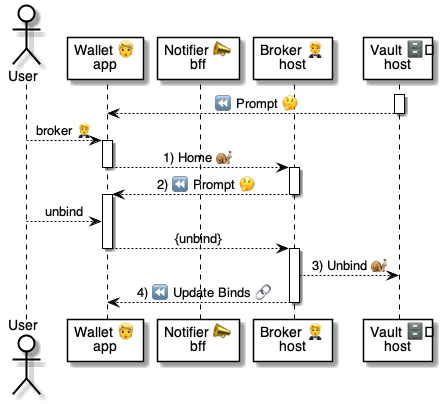
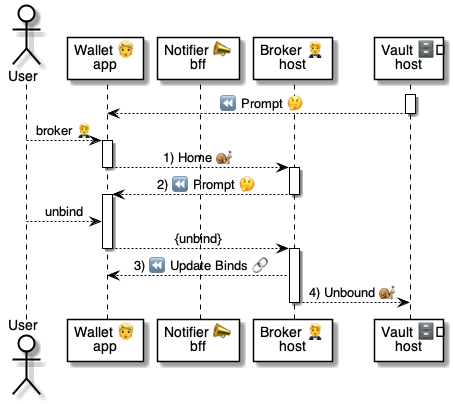
.

diff --git a/4 ⚙ Solution/20 🧑🦰 UI/1 🧑🦰 Wallets/🧑🦰💬 Wallet in Vaults 🗄/🧑🦰💬🤵 Unbind 🗄.md b/4 ⚙ Solution/20 🧑🦰 UI/1 🧑🦰 Wallets/🧑🦰💬 Wallet in Vaults 🗄/🧑🦰💬🤵 Unbind 🗄.md
@@ -33,6 +33,6 @@
 |-|-|-
 | 1 | [🧑🦰🐌🤗 `Home@Host`](<../../../41 🎭 Domain Roles/Hosts 🤗/🤗🅰 Host methods/🤵🐌🤗 Home.md>) | Call the [Broker 🤵](<../../3 🤵 Brokers/🤵🤲 Broker helper.md>) in a [Chat 💬](<../../../35 💬 Chats/💬 Chats/💬 Chat.md>)  with a [Host 🤗](<../../../41 🎭 Domain Roles/Hosts 🤗/🤗🎭 Host role.md>) 
 | 2 | [🤗⏩🧑🦰 `Prompt@Host`](<../../../41 🎭 Domain Roles/Hosts 🤗/🤗⏩ Host flows/🤗⏩🧑🦰 Prompt 🤔.md>) | Ask the [Broker 🤵](<../../3 🤵 Brokers/🤵🤲 Broker helper.md>) to remove the  [Bind 🔗](<../../../30 🧩 Data/2 🔗 Binds/🔗 Bind.md>)
-| 3 | [🤵🐌🗄 `Unbound@Vault`](<../../../41 🎭 Domain Roles/Vaults 🗄/🗄🅰 Vault methods/🤵🐌🗄 Unbind.md>) | The [Broker 🤵](<../../3 🤵 Brokers/🤵🤲 Broker helper.md>) unbinds and informs the [Vault 🗄](<../../../41 🎭 Domain Roles/Vaults 🗄/🗄🎭 Vault role.md>)
-| 4 | [🤵⏩🧑🦰 Update Binds 🔗](<../../3 🤵 Brokers/🤵⏩ Broker flows/🤵⏩🧑🦰 Update Binds 🔗.md>) | Asks the [Wallet 🧑🦰](<../🧑🦰🛠 Wallet app.md>) to update the [Binds 🔗](<../../../30 🧩 Data/2 🔗 Binds/🔗 Bind.md>)
+| 3 | [🤵⏩🧑🦰 Update Binds 🔗](<../../3 🤵 Brokers/🤵⏩ Broker flows/🤵⏩🧑🦰 Update Binds 🔗.md>) | Asks the [Wallet 🧑🦰](<../🧑🦰🛠 Wallet app.md>) to update the [Binds 🔗](<../../../30 🧩 Data/2 🔗 Binds/🔗 Bind.md>)
+| 4 | [🤵🐌🗄 `Unbound@Vault`](<../../../41 🎭 Domain Roles/Vaults 🗄/🗄🅰 Vault methods/🤵🐌🗄 Unbind.md>) | The [Broker 🤵](<../../3 🤵 Brokers/🤵🤲 Broker helper.md>) unbinds and informs the [Vault 🗄](<../../../41 🎭 Domain Roles/Vaults 🗄/🗄🎭 Vault role.md>)
 |

diff --git a/4 ⚙ Solution/20 🧑🦰 UI/1 🧑🦰 Wallets/🧑🦰🛠 Wallet app.md b/4 ⚙ Solution/20 🧑🦰 UI/1 🧑🦰 Wallets/🧑🦰🛠 Wallet app.md
@@ -136,7 +136,7 @@
 
     | Category | Workflow |  Description
     |-|-|-
-    | 🤵 Set up | [👉 Onboard](<🧑🦰💬 Wallet in App 🏠/🧑🦰💬🤵 Onboard.md>)  | Register the [Wallet 🧑🦰](<🧑🦰🛠 Wallet app.md>) on a [Broker 🤵](<../3 🤵 Brokers/🤵🤲 Broker helper.md>)
+    | 🤵 Set up | [👉 Onboard](<🧑🦰✨ Wallet onboard/🧑🦰💬🤵 Onboard.md>)  | Register the [Wallet 🧑🦰](<🧑🦰🛠 Wallet app.md>) on a [Broker 🤵](<../3 🤵 Brokers/🤵🤲 Broker helper.md>)
     | | [👉 Translate](<🧑🦰💬 Wallet in App 🏠/🧑🦰💬🤵 Translate.md>)  | Change the language of the [Wallet 🧑🦰](<🧑🦰🛠 Wallet app.md>)
     | 🔆 Locators |[👉 Host QR](<🧑🦰💬 Wallet in App 🏠/🧑🦰🔆🤗 Tap host locator.md>)  | Scan a [Host 🤗 NFC/QR](<../../41 🎭 Domain Roles/Hosts 🤗/🤗🎭 Host role.md>)   to open a [Chat 💬](<../../35 💬 Chats/💬 Chats/💬 Chat.md>)
     ||[👉 Printer QR](<🧑🦰💬 Wallet in App 🏠/🧑🦰🔆🖨 Tap alias locator.md>)  | Scan a [Printer 🖨 NFC/QR](<../../45 🤲 Helper domains/Printers 🖨/🖨🤲 Printer helper.md>) to open a [Chat 💬](<../../35 💬 Chats/💬 Chats/💬 Chat.md>)

diff --git a/4 ⚙ Solution/20 🧑🦰 UI/2 📣 Notifiers/📣🅰 Notifier methods/1 🤵 Onboard/1 🧑🦰🚀📣 Onboard.md b/4 ⚙ Solution/20 🧑🦰 UI/2 📣 Notifiers/📣🅰 Notifier methods/1 🤵 Onboard/1 🧑🦰🚀📣 Onboard.md
@@ -7,7 +7,7 @@
 
 A new [Wallet 🧑🦰 apps](<../../../1 🧑🦰 Wallets/🧑🦰🛠 Wallet app.md>) asks a [Notifier 📣 domain](<../../📣👥 Notifier domain.md>) to onboard.
 
-* Used in [Onboard 🧑🦰👉🤵](<../../../1 🧑🦰 Wallets/🧑🦰💬 Wallet in App 🏠/🧑🦰💬🤵 Onboard.md>) to register the channel between the [Notifier 📣 domain](<../../📣👥 Notifier domain.md>) and the [Wallet 🧑🦰 apps](<../../../1 🧑🦰 Wallets/🧑🦰🛠 Wallet app.md>) (e.g., sockets). 
+* Used in [Onboard 🧑🦰👉🤵](<../../../1 🧑🦰 Wallets/🧑🦰✨ Wallet onboard/🧑🦰💬🤵 Onboard.md>) to register the channel between the [Notifier 📣 domain](<../../📣👥 Notifier domain.md>) and the [Wallet 🧑🦰 apps](<../../../1 🧑🦰 Wallets/🧑🦰🛠 Wallet app.md>) (e.g., sockets). 
  
 * Should wait for the notifications to start working before allowing the user to fully use the [Wallet 🧑🦰 app](<../../../1 🧑🦰 Wallets/🧑🦰🛠 Wallet app.md>).
 

diff --git a/4 ⚙ Solution/20 🧑🦰 UI/3 🤵 Brokers/🤵⏩ Broker flows/🤵⏩🗄 Bind vault.md b/4 ⚙ Solution/20 🧑🦰 UI/3 🤵 Brokers/🤵⏩ Broker flows/🤵⏩🗄 Bind vault.md
@@ -4,7 +4,7 @@
 
 
 > Used in:
-> <br/>• [🧑🦰👉🤵 Onboard @ Wallet](<../../1 🧑🦰 Wallets/🧑🦰💬 Wallet in App 🏠/🧑🦰💬🤵 Onboard.md>) when setting the default [Vaults 🗄](<../../../41 🎭 Domain Roles/Vaults 🗄/🗄🎭 Vault role.md>) upon install.
+> <br/>• [🧑🦰👉🤵 Onboard @ Wallet](<../../1 🧑🦰 Wallets/🧑🦰✨ Wallet onboard/🧑🦰💬🤵 Onboard.md>) when setting the default [Vaults 🗄](<../../../41 🎭 Domain Roles/Vaults 🗄/🗄🎭 Vault role.md>) upon install.
 > <br/>•  [🧑🦰👉🗄 Bind @ Wallet](<../../1 🧑🦰 Wallets/🧑🦰💬 Wallet in Prompts 🤔/🧑🦰👉🗄 Bind 🔗.md>) when the user binds to to a [Vault 🗄](<../../../41 🎭 Domain Roles/Vaults 🗄/🗄🎭 Vault role.md>) in a chat.
 
 

diff --git a/4 ⚙ Solution/41 🎭 Domain Roles/Vaults 🗄/🗄🎭 Vault role.md b/4 ⚙ Solution/41 🎭 Domain Roles/Vaults 🗄/🗄🎭 Vault role.md
@@ -44,7 +44,7 @@
         
     | | Workflow |  Description
     |-|-|-
-    ||[👉 Onboard](<../../20 🧑🦰 UI/1 🧑🦰 Wallets/🧑🦰💬 Wallet in App 🏠/🧑🦰💬🤵 Onboard.md>) | Register the [Wallet 🧑🦰](<../../20 🧑🦰 UI/1 🧑🦰 Wallets/🧑🦰🛠 Wallet app.md>) on a [Broker 🤵](<../../20 🧑🦰 UI/3 🤵 Brokers/🤵🤲 Broker helper.md>)
+    ||[👉 Onboard](<../../20 🧑🦰 UI/1 🧑🦰 Wallets/🧑🦰✨ Wallet onboard/🧑🦰💬🤵 Onboard.md>) | Register the [Wallet 🧑🦰](<../../20 🧑🦰 UI/1 🧑🦰 Wallets/🧑🦰🛠 Wallet app.md>) on a [Broker 🤵](<../../20 🧑🦰 UI/3 🤵 Brokers/🤵🤲 Broker helper.md>)
 
     ---
     <br/>

diff --git a/4 ⚙ Solution/20 🧑🦰 UI/3 🤵 Brokers/🤵🅰 Broker methods/1 🤵🅰 Wallets 🧑🦰/📣🚀🤵 Onboard.md b/4 ⚙ Solution/20 🧑🦰 UI/3 🤵 Brokers/🤵🅰 Broker methods/1 🤵🅰 Wallets 🧑🦰/📣🚀🤵 Onboard.md
@@ -4,7 +4,7 @@
 # 📣🚀🤵 Onboard @ Broker
 
 
-> Used in [Onboard 👉](<../../../1 🧑🦰 Wallets/🧑🦰💬 Wallet in App 🏠/🧑🦰💬🤵 Onboard.md>)
+> Used in [Onboard 👉](<../../../1 🧑🦰 Wallets/🧑🦰✨ Wallet onboard/🧑🦰💬🤵 Onboard.md>)
 > 
 <br/>
 
